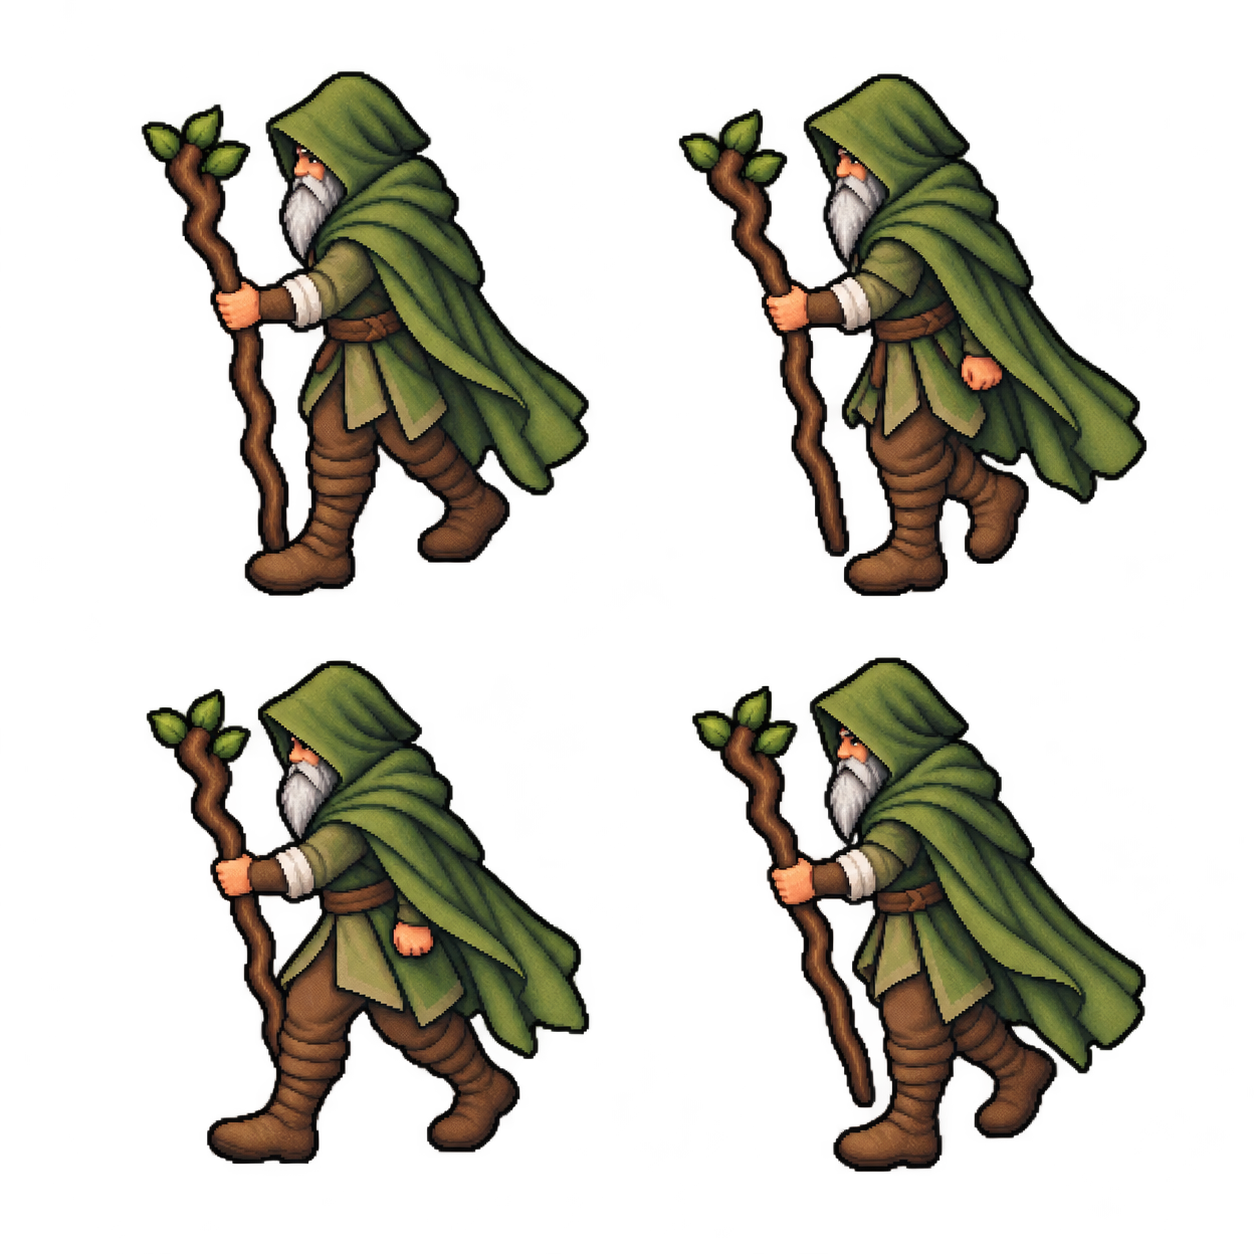
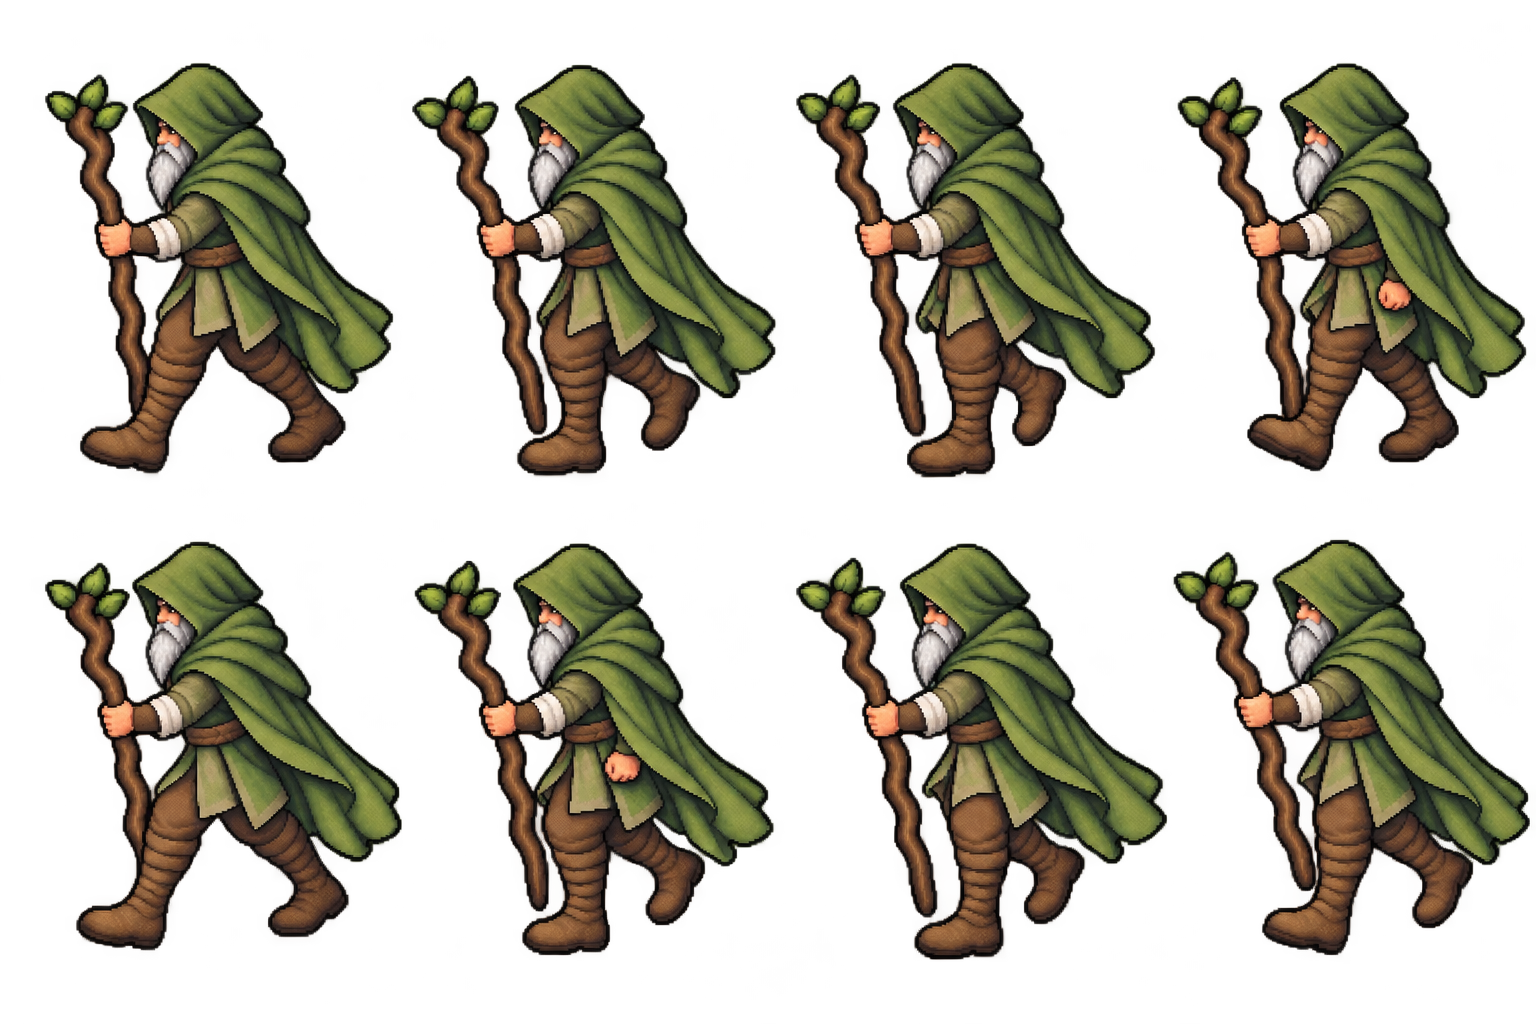
Redraw side walks with eight registered gait phases; preserve up cycle

diff --git a/docs/art/druid-walk-other-directions-v1/README.md b/docs/art/druid-walk-other-directions-v1/README.md
@@ -1,6 +1,6 @@
 # Ходьба друида влево, вправо и вверх
 
-Три новых цикла для просмотра и выбора, **пока без подключения к игре**. Каждый содержит четыре полностью перерисованные позы. Образ и движение всего тела опираются на принятую [ходьбу вниз](../druid-walk-down-v2/README.md) и [четыре стоящих ракурса](../druid-turnaround-v3/druid-four-views.png).
+Циклы для просмотра и выбора, **пока без подключения к игре**. Боковые варианты перерисованы после замечания о дёрганом движении и нечитаемой смене ног: теперь в каждом **восемь кадров вместо четырёх**. Цикл вверх и все три его файла оставлены без изменений. Образ опирается на принятую [ходьбу вниз](../druid-walk-down-v2/README.md) и [четыре стоящих ракурса](../druid-turnaround-v3/druid-four-views.png).
 
 ## Общее сравнение
 
@@ -8,24 +8,24 @@
 
 [Открыть общий GIF](walk-comparison.gif)
 
-<img src="walk-comparison.gif" alt="Ходьба влево, вправо и вверх: три четырёхкадровых цикла" width="576">
+<img src="walk-comparison.gif" alt="Новая восьмикадровая ходьба влево и вправо; прежняя ходьба вверх" width="576">
 
 ## Отдельные файлы
 
 | Направление | Анимация | Игровые кадры | Подробный исходный рисунок |
 | --- | --- | --- | --- |
-| Влево · A | [GIF](walk-left-preview.gif) | [PNG 256×80](walk-left-64x80.png) | [Четыре позы](walk-left-source.png) |
-| Вправо · D | [GIF](walk-right-preview.gif) | [PNG 256×80](walk-right-64x80.png) | [Четыре позы](walk-right-source.png) |
+| Влево · A | [GIF](walk-left-preview.gif) | [PNG 512×80](walk-left-64x80.png) | [Восемь поз](walk-left-source.png) |
+| Вправо · D | [GIF](walk-right-preview.gif) | [PNG 512×80](walk-right-64x80.png) | [Восемь поз](walk-right-source.png) |
 | Вверх · W | [GIF](walk-up-preview.gif) | [PNG 256×80](walk-up-64x80.png) | [Четыре позы](walk-up-source.png) |
 
-Исходные листы 1254×1254 сохранены без изменений. На них порядок кадров — слева направо, сверху вниз. На игровых полосах четыре кадра 64×80 идут слева направо.
+Новые боковые исходники — 1536×1024, по четыре фигуры в двух рядах. Исходник вида со спины — прежний 1254×1254, два ряда по две фигуры. Порядок чтения везде — слева направо, сверху вниз. Исходные рисунки сохранены непосредственно из генерации. На игровых полосах кадры 64×80 идут слева направо: восемь для каждой стороны и четыре для верха. Отклонённые боковые изображения заменены по прежним путям; отдельного архива не создавалось.
 
-Художественное задание сохраняет посох в анатомически левой руке: в левом боковом виде это ближняя рука, в правом — дальняя, со спины — слева для зрителя. Правый цикл нарисован отдельно, а не получен зеркальным отражением левого. Движение задано для таза, полных ног, плеч, рук, посоха и плаща. Неподвижный торс не накладывается поверх новых ног. Убедительность рисунка и шага оценивается по исходникам и GIF перед интеграцией.
+Художественное задание сохраняет посох в анатомически левой руке: в левом боковом виде это ближняя рука, в правом — дальняя, со спины — слева для зрителя. Правый цикл нарисован отдельно, а не получен зеркальным отражением левого. Для боковых циклов задана последовательность: контакт правой ногой → принятие веса → проход левой ноги под тазом с поднятой стопой → вынос левой ноги вперёд → контакт левой ногой → принятие веса → проход правой ноги → вынос правой ноги. Плащ должен оставлять читаемыми бёдра, колени и сапоги; плечи, руки и посох двигаются умеренно. Все позы перерисованы целиком. Убедительность шага оценивается по исходникам и GIF перед интеграцией.
 
-Для подготовки всех двенадцати игровых кадров использован один масштаб **1/8**. Каждая фигура уменьшена целиком; отдельные части не переставляются и не отражаются. Горизонтальный ориентир корпуса совмещён с x=32, нижняя граница силуэта — с y=75; непрозрачные пиксели заканчиваются на строке 74. Все целые фигуры помещаются в кадры без обрезания. Альфа PNG приведена к 0 или 255; палитра игровых PNG не ограничена.
+Для всех шестнадцати новых боковых кадров использован общий масштаб **2/13**, подходящий к новому размеру исходных фигур. Чтобы не добавлять горизонтального дрожания при нарезке, середина зелёной области капюшона совмещена с x=32; нижняя граница силуэта — с y=75. Перемещается и уменьшается целая фигура, без неподвижной накладки на корпус, перестановки частей тела, зеркальных копий или растяжения отдельных частей. Непрозрачные пиксели заканчиваются на строке 74. Все фигуры помещаются без обрезания. Альфа PNG — 0 или 255; палитра игровых PNG не ограничена. Подготовленная ранее ходьба вверх не пересчитывалась.
 
-Отдельные GIF имеют размер **192×240**, общий — **576×240**. Темп соответствует принятой ходьбе вниз: **160 мс на кадр, 640 мс на цикл**, бесконечное повторение. Общая палитра GIF ограничена 256 цветами только для предпросмотра.
+Отдельные GIF имеют размер **192×240**, общий — **576×240**. Для сторон: **80 мс на кадр**, восемь кадров. Для верха: **160 мс на кадр**, четыре кадра. Длительность всех циклов осталась **640 мс**, бесконечное повторение. В общем GIF каждый прежний кадр верха удерживается два шага по 80 мс; его темп сохранён. Палитра GIF ограничена 256 цветами только для предпросмотра.
 
-Проверены размеры, прозрачность, различие всех четырёх кадров внутри каждого цикла, различие областей плеч, таза и ног, опорная строка и параметры GIF. Исходный код, подключённая ходьба вниз, неподвижные ракурсы и меню не изменены.
+Проверены размеры, прозрачность, различие восьми боковых кадров и их областей ног, опорная строка и параметры GIF. По контрольным суммам подтверждено, что исходник, игровой PNG и GIF ходьбы вверх, а также весь `src/` остались неизменными. Игровой код, подключённая ходьба вниз, неподвижные ракурсы и меню не менялись.
 
 Для скачивания откройте нужный файл на GitHub и нажмите **Download raw file**. После `git pull --ff-only` все файлы находятся в `docs/art/druid-walk-other-directions-v1/`.
